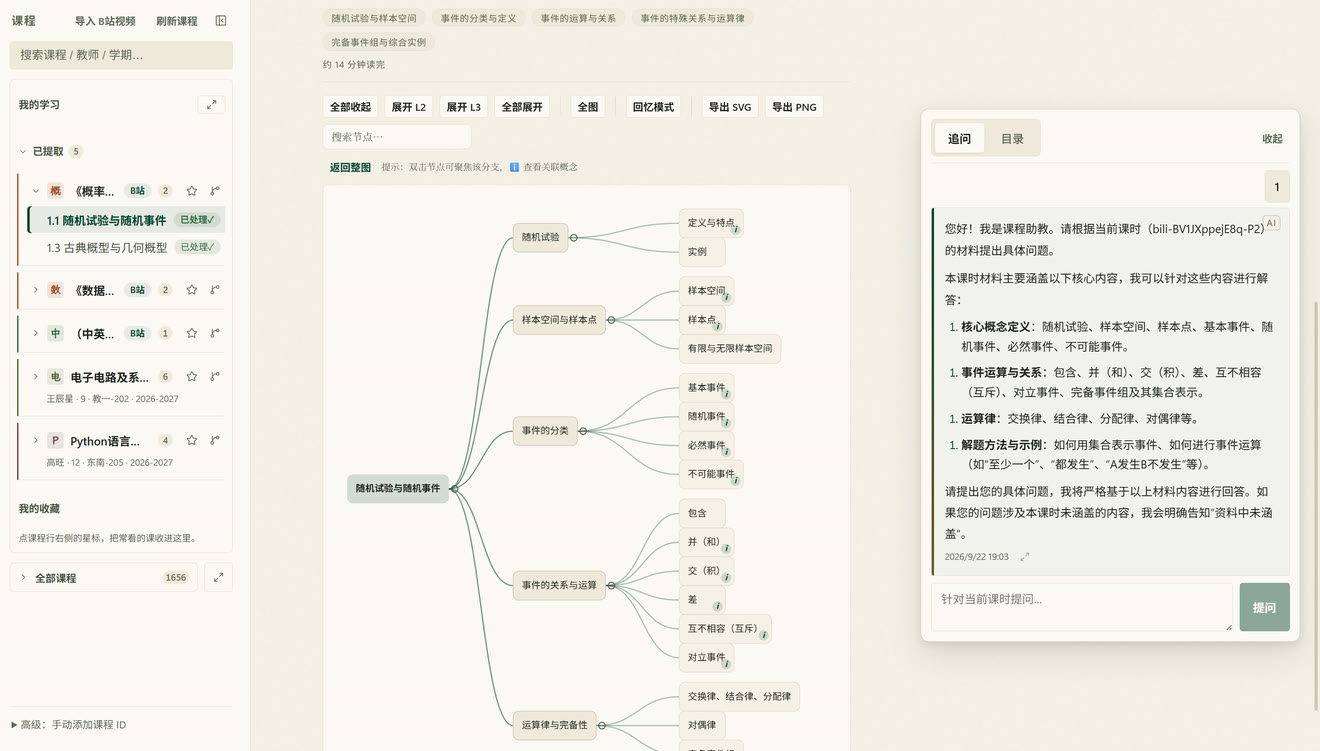
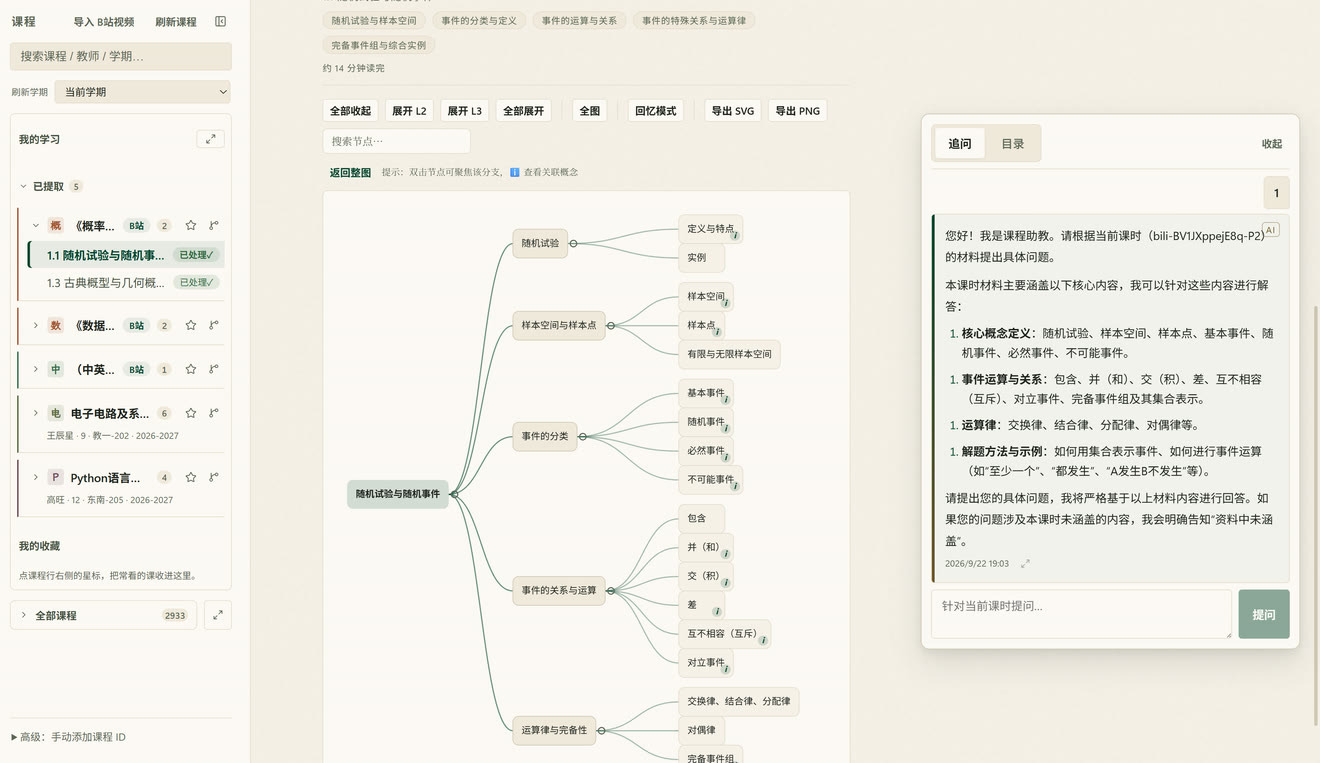
docs: README 配图整批重跑——13 资产带登录态与新学期选择行
readme-shots 全机位重建（2.06MB）：hero/tasks/qa/mindmap/browser/
running/empty/gate/bili×2/handout/views-strip/demo.gif。侧栏机位
现带平台登录态，「刷新学期」选择行与全部学期下拉可见（README 门面
与新功能对齐）；views-strip 四块裁条恢复满幅面；窗口铺满物理屏
（CSS 视口仍锚 1600，构图不变、更清晰）。PROGRESS.md 记四坑修复
台账；方案文件状态行同步。

diff --git a/PROGRESS.md b/PROGRESS.md
@@ -4,7 +4,13 @@
 
 ## 当前状态
 
-- **课程学期与平台同步已落地（2026-10-07，方案 `docs/plans/2026-10-07-semester-sync-with-platform.md`，D1-D7 全按推荐；Andiii 校园网试用报「选择的学期不是网站上的所有学期选项，无法选 2026-2027 第二学期、也就无法总结第二学期的课」→「都按你推荐的去做，照着计划一步步执行，走平时正规的开发流程」）**：**根因两层**——①「刷新课程」只打 `t-1` 课程列表且不带学期参数，该接口默认只返回当前学期（2026-2027-1）；② 学期筛选选项是从本地已收录课程去重生成的，拉不到的学期自然选不到。**活体取证（校园网 + 应用会话只读探针，2026-10-07）**：`GET /v1/list/termYear` 返回全部 8 个学期（id 29–37，含 `{"id":37,"acyeCode":"2026-2027","acteTerm":2,"currentTerm":false}`）；`t-1` 支持 `acteId` 过滤（`acteId=37` → 6 页全是 2026-2027 第二学期真实课程，如「大学物理(B)Ⅱ」9 月下旬开课；`acteId=36/34` → 3/9 页；**错误参数名 `termId` 被平台静默忽略**并回退当前学期——参数名必须由测试钉住）；`/v1/myself/curriculum?acteId=` 也可按学期过滤但 t-1 已满足（字段全）不动。**四批落地**：批1 `daf6eb1`（api-parse `parseTermList` + term 规范格式 `YYYY-YYYY-N`（acteName 提供学期号，缺号回退旧形态）、shared `termOrdinal/termLabel` 唯一定义、client `listTerms()`/`listCoursesPaged({acteId})`）；批2 `0510d58`（IPC `school:listCourses` 接可选 acteId（非正整数静默忽略=不把新参数变成错误弹窗）、新 `school:listTerms`/`refreshTerm`/`setRefreshTerm`（remember 选中学期存 settings）、学期刷新页预算=全量+20 页硬顶（实测单学期 3–9 页，客户端默认 4 页会静默截断；`courseListMaxPages` 用户设置仍为上限）；桥面契约 + smoke EXPECTED_BRIDGE 同步）；批3 `d8d7664`（侧栏「刷新课程」下方学期选择行：选项=平台目录（当前学期带「（当前）」）+「当前学期」=不过滤的历史行为；选中即持久化不自动刷新；meta 行/toast 补学期名，空结果说明哪个学期为空；remembered 学期经 ref 懒解析，目录未 settle 的快快点也不退默认；CourseBrowser 筛选与卡片/侧栏副行统一走 termLabel）。**踩坑两条（都已修+钉住）**：① Preact/Chromium 都会静默丢弃「先于 options 设置的 select.value」，且 happy-dom 对数字 value 静默失败——select 等 `termScopeReady` 后整体挂载 + value 一律 `String()`；② 诊断期用 `npx electron` 探针 + `| head` 截断，管道写崩触发 Electron「A JavaScript error occurred in the main process」弹窗（Andiii 侧连弹多次）——探针输出不能再接 head。**门禁（全部实跑）**：lint 0 / typecheck 0 / test **1632 passed / 145 files**（+28：api-parse +5、school-client +4、course-display +3、ipc 批2 +6、semester-refresh 新文件 +10）/ build 成功 / smoke **41/41**。**README 配图重跑未完成（如实记账）**：本批改了侧栏可见样式（新增学期选择行，hero/tasks 等机位侧栏头部区在画内），按防腐烂纪律须重跑 `node scripts/readme-shots.mjs`——**连跑 3 次均在同一处失败**：`window pin failed: expected css viewport ~1600, last 1063`（user32 钉窗后 dev 窗口 CSS 视口只剩 1063，zoom 却已是 1.19——帧被应用自身的窗口边界恢复逻辑打回默认 1281×801）。取证（一次性探针，只读）：① dev 窗口确实存在且可见（默认 1281×801，标题 'Flash Summary'）；② 钉窗脚本按标题枚举会命中**所有**同名窗口——Andiii 正在运行的应用实例（pid 12680）已被顺带 SetWindowPos 到 1921×1200@60,60 三次（仅位置尺寸，无数据影响，他已可自行拖回）；③ 脱离管线单独复现 pinWindow 全部步骤（connect→测 inset→SetWindowPos→轮询 innerWidth）**一次即 PIN OK**——差异在管线先跑了 passConsentGate/dismissWindowHint，时序上撞上边界恢复。结论：**非本次代码改动引入**（批1-3 零构建/UI 结构外改动未碰窗口逻辑），是管线在你应用实例存活时的已知脆弱性（README 台账 2026-09-21 起就记有钉窗/zoom 类抖动）。**处置：停止重试**（不再反复动你的窗口）；`docs/assets/readme/` 保持上一版（10 图缺侧栏学期行这一处像素差）；待你关掉应用实例后重跑一条命令即可收口（或叫我重试）。**本批不 bump 版本**。**留给 Andiii 装机验收**：① 登录后侧栏出现学期下拉且列出平台全部学期；② 选「2026-2027 第二学期」→ 刷新 → 侧栏出现该学期课程、meta 行带学期名；③ 浏览页「按学期筛选」出现「2026-2027 第二学期」且能过滤；④ 重启后记得上次选的学期。
+- **课程学期与平台同步已落地（2026-10-07，方案 `docs/plans/2026-10-07-semester-sync-with-platform.md`，D1-D7 全按推荐；Andiii 校园网试用报「选择的学期不是网站上的所有学期选项，无法选 2026-2027 第二学期、也就无法总结第二学期的课」→「都按你推荐的去做，照着计划一步步执行，走平时正规的开发流程」）**：**根因两层**——①「刷新课程」只打 `t-1` 课程列表且不带学期参数，该接口默认只返回当前学期（2026-2027-1）；② 学期筛选选项是从本地已收录课程去重生成的，拉不到的学期自然选不到。**活体取证（校园网 + 应用会话只读探针，2026-10-07）**：`GET /v1/list/termYear` 返回全部 8 个学期（id 29–37，含 `{"id":37,"acyeCode":"2026-2027","acteTerm":2,"currentTerm":false}`）；`t-1` 支持 `acteId` 过滤（`acteId=37` → 6 页全是 2026-2027 第二学期真实课程，如「大学物理(B)Ⅱ」9 月下旬开课；`acteId=36/34` → 3/9 页；**错误参数名 `termId` 被平台静默忽略**并回退当前学期——参数名必须由测试钉住）；`/v1/myself/curriculum?acteId=` 也可按学期过滤但 t-1 已满足（字段全）不动。**四批落地**：批1 `daf6eb1`（api-parse `parseTermList` + term 规范格式 `YYYY-YYYY-N`（acteName 提供学期号，缺号回退旧形态）、shared `termOrdinal/termLabel` 唯一定义、client `listTerms()`/`listCoursesPaged({acteId})`）；批2 `0510d58`（IPC `school:listCourses` 接可选 acteId（非正整数静默忽略=不把新参数变成错误弹窗）、新 `school:listTerms`/`refreshTerm`/`setRefreshTerm`（remember 选中学期存 settings）、学期刷新页预算=全量+20 页硬顶（实测单学期 3–9 页，客户端默认 4 页会静默截断；`courseListMaxPages` 用户设置仍为上限）；桥面契约 + smoke EXPECTED_BRIDGE 同步）；批3 `d8d7664`（侧栏「刷新课程」下方学期选择行：选项=平台目录（当前学期带「（当前）」）+「当前学期」=不过滤的历史行为；选中即持久化不自动刷新；meta 行/toast 补学期名，空结果说明哪个学期为空；remembered 学期经 ref 懒解析，目录未 settle 的快快点也不退默认；CourseBrowser 筛选与卡片/侧栏副行统一走 termLabel）。**踩坑两条（都已修+钉住）**：① Preact/Chromium 都会静默丢弃「先于 options 设置的 select.value」，且 happy-dom 对数字 value 静默失败——select 等 `termScopeReady` 后整体挂载 + value 一律 `String()`；② 诊断期用 `npx electron` 探针 + `| head` 截断，管道写崩触发 Electron「A JavaScript error occurred in the main process」弹窗（Andiii 侧连弹多次）——探针输出不能再接 head。**门禁（全部实跑）**：lint 0 / typecheck 0 / test **1632 passed / 145 files**（+28：api-parse +5、school-client +4、course-display +3、ipc 批2 +6、semester-refresh 新文件 +10）/ build 成功 / smoke **41/41**。**README 配图已整批重跑（同日收尾，Andiii「你直接继续 全部做完吧」之后）**：13 资产全重建（2.06MB，manifest 记账），hero/tasks 等侧栏机位带上登录态与新学期选择行；views-strip 四块裁条恢复正常幅面。过程实锤并修掉截图管线四个真问题（均有防复发设计）：
+① **钉窗按标题枚举会命中所有同名窗口**——Andiii 正开着的应用实例被顺带 SetWindowPos 三次（仅位置尺寸）。修=窗口操作全部按 spawn 出的 pid 过滤（ui-cdp 的 osWindowScript 加 GetWindowThreadProcessId 分支，readme-shots 传 electron.pid）。
+② **zoom 会在运行中静默掉回 1**（CDP 时间线实锤：hero 之后 innerWidth 1906/dpr 1.5，后续 8 张全缩成 1433 CSS）——正是 Andiii 看出的「没有铺满全屏就直接截图」。修=fillWindow 每次重钉+轮询校验 innerWidth≈1600，每机位开拍前 ensureFullWindow 复校。
+③ **「铺满」此前也没真铺满**：SW_MAXIMIZE 对隐藏启动的窗口只到 ~1707 物理宽（PowerShell Screen.Bounds 报的是 DIP 不是物理像素），且 captureScreenshot 对隐藏启动的窗口永远等不到合成帧而挂死；PDF 导出走 getFocusedWindow()，隐藏再 SW_RESTORE 的窗口 hasFocus=false 直接导失败。修=index.ts 的 smoke 接缝加 SEU_SHOW=1（窗口起步即正常可见），铺满改用 CDP 物理屏尺寸（screen.width×dpr）SetWindowPos(0,0)+inset；Cdp.shot/clipShot 加 captureWithRetry（超时放弃+3×10s 重试）。
+④ **views 裁条曾只剩 144px**：隐藏窗口下封面图不解码、masthead 晚长高把正文顶出视野。修=SEU_SHOW（同③）+ scrollNoteIntoBody 两段式滚动。另：临时 userData 拷贝需带 bilibili-session（只带 school 会话时导入对话框停在扫码态、running 机位找不到导入按钮）；stationRunning 的 bili-preview 等待改优雅跳过（bilibili 风控 412 不再拖垮整轮）。
+**门禁（收尾实跑）**：lint 0 / typecheck 0 / test 1632/145 / smoke 41/41。
+**本批不 bump 版本**。**留给 Andiii 装机验收**：① 登录后侧栏出现学期下拉且列出平台全部学期；② 选「2026-2027 第二学期」→ 刷新 → 侧栏出现该学期课程、meta 行带学期名；③ 浏览页「按学期筛选」出现「2026-2027 第二学期」且能过滤；④ 重启后记得上次选的学期。
 - **README 门面整改 + 截图管线已落地（2026-10-06，方案 `docs/plans/2026-10-06-readme-screenshot-overhaul.md`，D1-D6 全按推荐裁）**：Andiii 转述其他 agent 反馈「仓库 README 作为电脑软件门面写得不太好、没有软件截图是大大扣分项」。**README 重写**：186 行/12,235 字 → 135 行，首屏 hero 实拍 + 一句话定位 + 按钮式下载；新增「界面一览」9 张真实界面截图（hero/任务流水线/四视图拼条/全部课程/追问坞/导图/PDF 讲义/B站导入×2）+ 核心流程 GIF（① 浏览课程 ② 导入即排队 ③ 笔记生成 ④ 追问 ⑤ 导图/PDF，DOM 字幕烧字）；功能表 13 行各压到一行；「当前状态」开发日志与全部内部批号/P 号移除（发布史归 CHANGELOG、台账归 PROGRESS）；**声明层摘要逐字保留**。**截图管线 `scripts/readme-shots.mjs`（新文件）**：真库副本（app.db **+ attachments**——修了 ui-shots 只拷 db 致笔记页截图缺时间线配图的 latent 缺口）→ CDP 机位走查 → user32 钉窗 1920×1200（校准边框 inset、实测 CSS 视口 1600、zoom 生效）→ 浅色主题 + toast 清理 → ffmpeg-static 裁自绘标题栏（44 css × dpr 换算）+ 缩放 + JPEG q3，产出 `docs/assets/readme/` **13 资产共 2.03MB**（manifest.json 记账，单张最大 239KB）。**公共库 `scripts/lib/ui-cdp.mjs`（新文件）**：ui-shots 的 CDP/等待/闸门/钉窗抽出共享，readme-shots 复用。**回归（批1 验收）**：ui-shots 默认模式复跑 9 机位全过；`--bili` 与 `--compliance` 两模式失败**与 HEAD 原版在相同条件下报错逐字一致**（--bili 假设未登录态——dev userData 现有会话时直接导入不出二维码；--compliance 的「导出 Markdown」选择器陈旧——按钮已改「复制 Markdown」），均为既有问题、非本次回归，已记 CHANGELOG [未发布] 待后续修。**`docs/ARCHITECTURE.md`（新文件）**：架构 ASCII 与项目结构从 README 迁入，IPC 通道数订正 66→**69**（实测 ipc.ts 69 个 handle 注册）。本批不碰 src/、不 bump 版本、无用户可见承诺变化；按 D1=A 截图直接用真实课程库画面（与已公开 promo.mp4 同源同口径）。
 - **README 配图二轮已回退（2026-10-07，按 Andiii 决定）**：二轮把配图收敛到 7 张并全部改元素裁切构图，Andiii 看完反馈「有很多瑕疵、还不如上一版」→ **整轮回退**（git revert 两个提交，README/配图/`scripts/readme-shots.mjs` 回到一轮状态：10 张整窗实拍 + 两列表格）。如实记一笔二轮的实质产出：过程中实锤并修掉一个真 bug——**带 clip 的 CDP 截图按 DSF(1.5) 出图，而页面有 zoom(1.187)，请求的 CSS 矩形只覆盖 1/zoom 的内容**（一轮的四视图拼图瓦片右缘因此少一截，观感可接受，故未随回退返工）；另外「任务卡只在存活且有进度时拍」的守卫也是有效经验。后续若再迭代截图管线，先把 clip zoom 标定加回去（方案：每次运行用全窗宽度/CSS 宽 与 探针 clip 宽度/请求宽 求出比值，clip 矩形整体乘上）。
 - **已发布 v0.7.14（2026-10-01，按 scripts/release.md 走完；Andiii「发布吧」）**：版本 0.7.13→**0.7.14**（发布准备提交 `cde3ae8`：package.json/lock 版本 + CHANGELOG [未发布] 收编为 [0.7.14] + README/PROGRESS；tag 打在同一提交）。**§1 门禁（实跑）**：lint 0 / typecheck 0 / test **1604 passed / 144 files** / build 成功 / smoke 41/41；git status 干净。**CI 与 Smoke 两条工作流对 `cde3ae8`（=tag 提交）均 success**。**§3 构建**：`npm run dist` → `release/Flash Summary Setup 0.7.14.exe`（160,023,271 B）+ blockmap + `release/latest.yml`（version 0.7.14，sha512/size 与 exe 匹配）；installer-license.txt BOM 程序化核验 OK。**§4 asar 抽验**：**asar verification OK: 620 files match (sha256)**。**§4.5 打包冒烟**：`node scripts/smoke-cdp.mjs --packaged` → **SMOKE PASSED: 41/41**。**§5 发布**：`git tag v0.7.14` 打在 `cde3ae8`（已核 `git log --oneline -1 v0.7.14`）；push master + tag；GitHub Release：https://github.com/Andiii208/flash-summary/releases/tag/v0.7.14 （资产 **Flash.Summary.Setup.0.7.14.exe** 160,023,271 + **latest.yml** 358 两件，checklist `grep -x latest.yml` 过；渠道 URL 302→CDN 正常）。**如实记一笔**：exe 上传连续撞 `uploads.github.com` EOF——根因是 Clash Fake-IP 把该域名解析到 172.19.0.84（TUN 死路，api.github.com 正常、uploads 不通）；显式 `HTTPS_PROXY=http://127.0.0.1:7890` 后一次传成，**未改用户代理配置**。另：v0.7.13 的 latest.yml 已于同日先行补传（见上条），本版流程已防再犯。**留给 Andiii**：装机更新到 0.7.14 后点一次「检查更新」（应「已是最新」）；打开存量 B 站笔记确认穿插。

diff --git a/docs/plans/2026-10-07-semester-sync-with-platform.md b/docs/plans/2026-10-07-semester-sync-with-platform.md
@@ -1,7 +1,7 @@
 # 课程学期与平台同步（按学期刷新课程）
 
 > 2026-10-07 · Andiii 试用报障：「选择的学期不是网站上的所有学期选项，比如无法选择 2026-2027 第二学期的课程，无法总结第二学期的课程」
-> 状态：**已执行完毕**（2026-10-07，Andiii「都按你推荐的去做」→ D1-D7 全取推荐侧；提交 `daf6eb1` 批1 / `0510d58` 批2 / `d8d7664` 批3 + 批4 记账；门禁 lint 0 / typecheck 0 / test 1632·145 / smoke 41/41；未 bump 版本；台账见 PROGRESS.md 首条）。**唯一未收口项**：README 配图重跑（侧栏新增行会改 hero/tasks 等机位像素）因 user32 钉窗与用户存活应用实例互相干扰连败 3 次，已挂起待其关闭应用后重跑，详见 PROGRESS.md 首条「README 配图重跑未完成」。
+> 状态：**已执行完毕**（2026-10-07，Andiii「都按你推荐的去做」→ D1-D7 全取推荐侧；提交 `daf6eb1` 批1 / `0510d58` 批2 / `d8d7664` 批3 + 批4 记账；门禁 lint 0 / typecheck 0 / test 1632·145 / smoke 41/41；未 bump 版本；台账见 PROGRESS.md 首条）。README 配图已按防腐烂纪律整批重跑（13 资产，含管线四坑修复，详见 PROGRESS.md 首条）。
 
 ---
 
